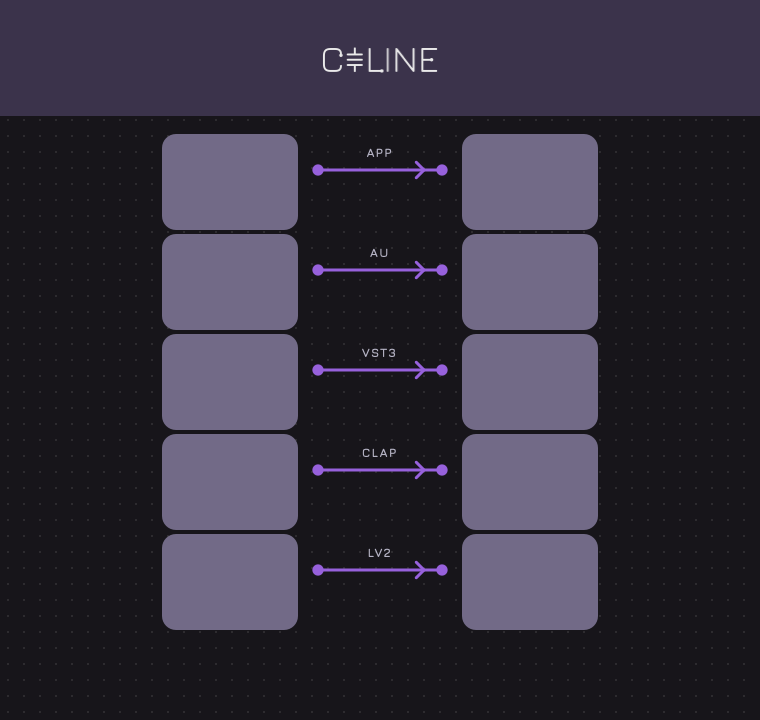
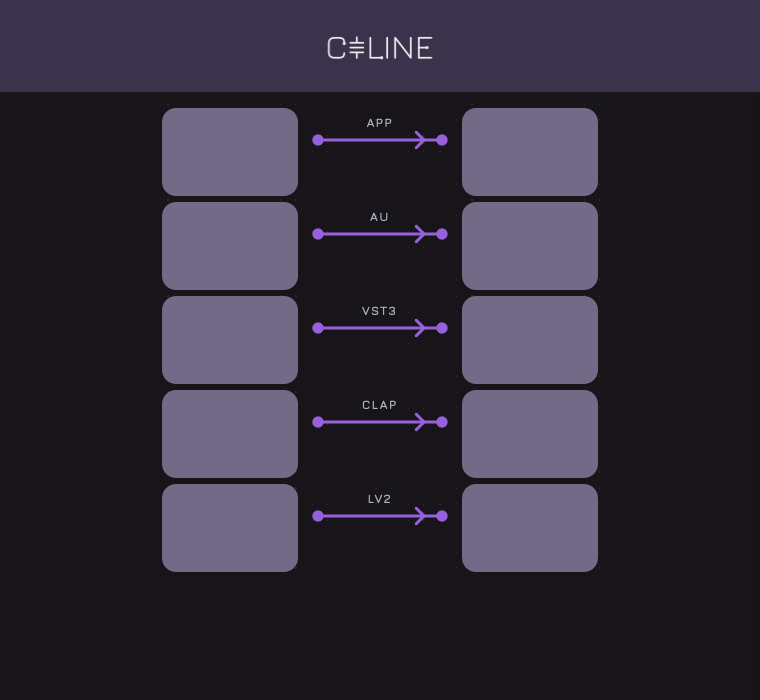
v1.4.0 WIP : Fixed the DMG file for macOS builds. Pre-release version fixed.

diff --git a/packaging/make-artwork.swift b/packaging/make-artwork.swift
@@ -200,12 +200,14 @@ func writeICO(_ sizes: [Int], _ url: URL) {
 
 // MARK: - The DMG window
 
-// Window and layout, in points. Kept in step with packaging/dmg/settings.py by hand. The
-// picture runs 90 points past the last tile, plain grid: Finder's title bar, and its status
-// and path bars when someone has them on, come out of the window's height (see settings.py).
-let dmgWidth = 760, dmgHeight = 720
+// Window and layout, in points. Kept in step with packaging/dmg/settings.py by hand.
+// Compact enough that the five rows (down to 572) show with every Finder bar on -- tab,
+// path and status bars, 124 points of a 712-point window between them -- and the picture
+// runs on as plain grid to 700, past what the window shows with none (see settings.py).
+let dmgWidth = 760, dmgHeight = 700
+let headerHeight: CGFloat = 92
 let leftX: CGFloat = 230, rightX: CGFloat = 530
-let firstRowY: CGFloat = 174, rowPitch: CGFloat = 100
+let firstRowY: CGFloat = 144, rowPitch: CGFloat = 94
 let rows = ["APP", "AU", "VST3", "CLAP", "LV2"]
 
 func dmgBackground(scale: CGFloat) -> NSBitmapImageRep {
@@ -216,11 +218,11 @@ func dmgBackground(scale: CGFloat) -> NSBitmapImageRep {
 
         // The header band, holding the logo alone: the rows say what to do.
         header.setFill()
-        NSRect(x: 0, y: 0, width: rect.width, height: 116).fill()
+        NSRect(x: 0, y: 0, width: rect.width, height: headerHeight).fill()
 
-        let logoHeight: CGFloat = 44
+        let logoHeight: CGFloat = 40
         let logoWidth = logoHeight * logo.size.width / logo.size.height
-        drawUpright(logo, in: NSRect(x: (rect.width - logoWidth) / 2, y: (116 - logoHeight) / 2,
+        drawUpright(logo, in: NSRect(x: (rect.width - logoWidth) / 2, y: (headerHeight - logoHeight) / 2,
                                      width: logoWidth, height: logoHeight))
 
         // One row per format: a tile under each icon and its name, so Finder's label
@@ -233,9 +235,9 @@ func dmgBackground(scale: CGFloat) -> NSBitmapImageRep {
 
             for x in [leftX, rightX] {
                 tile.setFill()
-                // Finder centres the 64-point icon on its position and sets its name about
+                // Finder centres the 56-point icon on its position and sets its name about
                 // 3 points under it, 16 high: the tile covers both with room to spare.
-                NSBezierPath(roundedRect: NSRect(x: x - 68, y: y - 40, width: 136, height: 96),
+                NSBezierPath(roundedRect: NSRect(x: x - 68, y: y - 36, width: 136, height: 88),
                              xRadius: 14, yRadius: 14).fill()
             }
 

diff --git a/packaging/dmg/settings.py b/packaging/dmg/settings.py
@@ -31,9 +31,9 @@ rows = [
 ]
 
 # In points, matching make-artwork.swift: icons on the left column, folders on the right,
-# one row every 100 points from the first.
+# one row every 94 points from the first.
 left_x, right_x = 230, 530
-first_row_y, row_pitch = 174, 100
+first_row_y, row_pitch = 144, 94
 
 files = []
 symlinks = {}
@@ -54,15 +54,19 @@ background = os.path.join(here, "background.png")
 
 # Finder takes this as the whole window frame, title bar included, with y measured up from
 # the bottom of the screen (measured on macOS 27: a 760 x 660 frame opened as exactly that).
-# Its status and path bars, if the user has them on, show here too and also come out of the
-# height. So the frame is the picture's width and 740 high: with no bars the last tile has
-# about 78 points of grid under it, with both still about 26. The picture (720 high) runs
-# past what any title bar leaves, so no version shows beyond it.
+#
+# The show_* settings below are the DMG's say, and Finder no longer listens to all of it:
+# the tab, path and status bars are the user's own Finder settings now and show in every
+# window, this one included. With all three on they and the title took 124 points of a
+# 740-point window (a CI-built DMG, opened on macOS 27), and cut the last row off. So the
+# layout is compact enough to fit under every bar: the rows end at 572, the frame is 712,
+# and with every bar on the last tile still has 16 points under it. With none, the window
+# shows plain grid below the rows, and the picture (700 high) runs past what it shows.
 #
 # Finder cannot centre a window or keep it off the Dock and the menu bar by itself. 100
-# points up clears a usual Dock, and the top (840) stays under the menu bar on a 900-point
+# points up clears a usual Dock, and the top (812) stays under the menu bar on a 900-point
 # laptop screen, the smallest current one.
-window_rect = ((160, 100), (760, 740))
+window_rect = ((160, 100), (760, 712))
 default_view = "icon-view"
 show_status_bar = False
 show_tab_view = False
@@ -71,7 +75,7 @@ show_pathbar = False
 show_sidebar = False
 
 arrange_by = None
-icon_size = 64
+icon_size = 56
 text_size = 12
 label_pos = "bottom"
 show_icon_preview = False

diff --git a/CLAUDE.md b/CLAUDE.md
@@ -312,7 +312,7 @@ Version is read from the `VERSION` file in project root.
 
 Every archive holds the Standalone app, VST3, CLAP and LV2, plus AU on macOS (universal). The AAX is built but shipped nowhere: it needs Avid's PACE signature to load. Nothing is code signed, so Gatekeeper and SmartScreen will warn — fine for testers, not for public distribution.
 
-- **The disk image** (`packaging/dmg/settings.py`, built by `dmgbuild` in `macos.yml`) is a drag-and-drop window: one row per format, the bundle on the left and a shortcut to the folder it installs into on the right — `/Applications`, then `/Library/Audio/Plug-Ins/Components`, `VST3`, `CLAP` and `LV2` — joined by a wire drawn on the background. `dmgbuild` writes Finder's layout file itself rather than scripting Finder, which is why it works on a headless runner; it is pinned. Finder draws the icons' names itself, white in dark mode and black in light, so each icon sits on a mid-tone tile both read on. Finder takes the window size as the **whole frame, title bar included** (and its position up from the bottom of the screen): a frame the size of the picture cut its bottom off. Its status and path bars, if the user has them on, show in the DMG's window too and take height as well. So the frame is taller than the rows need by more than the title bar and both bars together, and the picture runs on past the last row, so whatever they take is plain grid. Finder cannot centre the window or keep it off the Dock or menu bar; the position is chosen to fit a 900-point laptop screen. The plugin folders are system-wide, so Finder asks for a password; `CLAP` and `LV2` do not exist on a Mac until something has installed into them, and a disk image cannot create them, so on a fresh machine those two shortcuts lead nowhere.
+- **The disk image** (`packaging/dmg/settings.py`, built by `dmgbuild` in `macos.yml`) is a drag-and-drop window: one row per format, the bundle on the left and a shortcut to the folder it installs into on the right — `/Applications`, then `/Library/Audio/Plug-Ins/Components`, `VST3`, `CLAP` and `LV2` — joined by a wire drawn on the background. `dmgbuild` writes Finder's layout file itself rather than scripting Finder, which is why it works on a headless runner; it is pinned. Finder draws the icons' names itself, white in dark mode and black in light, so each icon sits on a mid-tone tile both read on. Finder takes the window size as the **whole frame, title bar included** (and its position up from the bottom of the screen): a frame the size of the picture cut its bottom off. Finder's tab, path and status bars are the user's own settings now and show in the DMG's window whatever the DMG asks (all three and the title took 124 points of 740 on a CI-built image), so the layout is compact enough to show every row under all of them, and the picture runs on past the last row, so whatever they leave is plain grid. Finder cannot centre the window or keep it off the Dock or menu bar; the position is chosen to fit a 900-point laptop screen. The plugin folders are system-wide, so Finder asks for a password; `CLAP` and `LV2` do not exist on a Mac until something has installed into them, and a disk image cannot create them, so on a fresh machine those two shortcuts lead nowhere.
 - **The installer** (`packaging/installer.iss`, Inno Setup in `windows.yml`) puts the plugins in Common Files' `VST3`, `CLAP` and `LV2` and the app under Program Files with a Start menu entry, each format a component, all ticked. Its license page is `COPYING`, the AGPL; the template's EULA, which forbade redistribution and reading the source, is gone. Its `AppId` must never change: it is how Windows knows a new version replaces an old one.
 - **The artwork** for both — the DMG background (with @2x), the volume icon, the wizard images at three scales and the setup icon — is drawn by `packaging/make-artwork.swift` from the logo, the app icon, the Jura fonts and the theme's colours, and committed. Run `swift packaging/make-artwork.swift` from the root after changing any of those. The DMG's rows are written in both that script and `settings.py`, and must agree.
 
